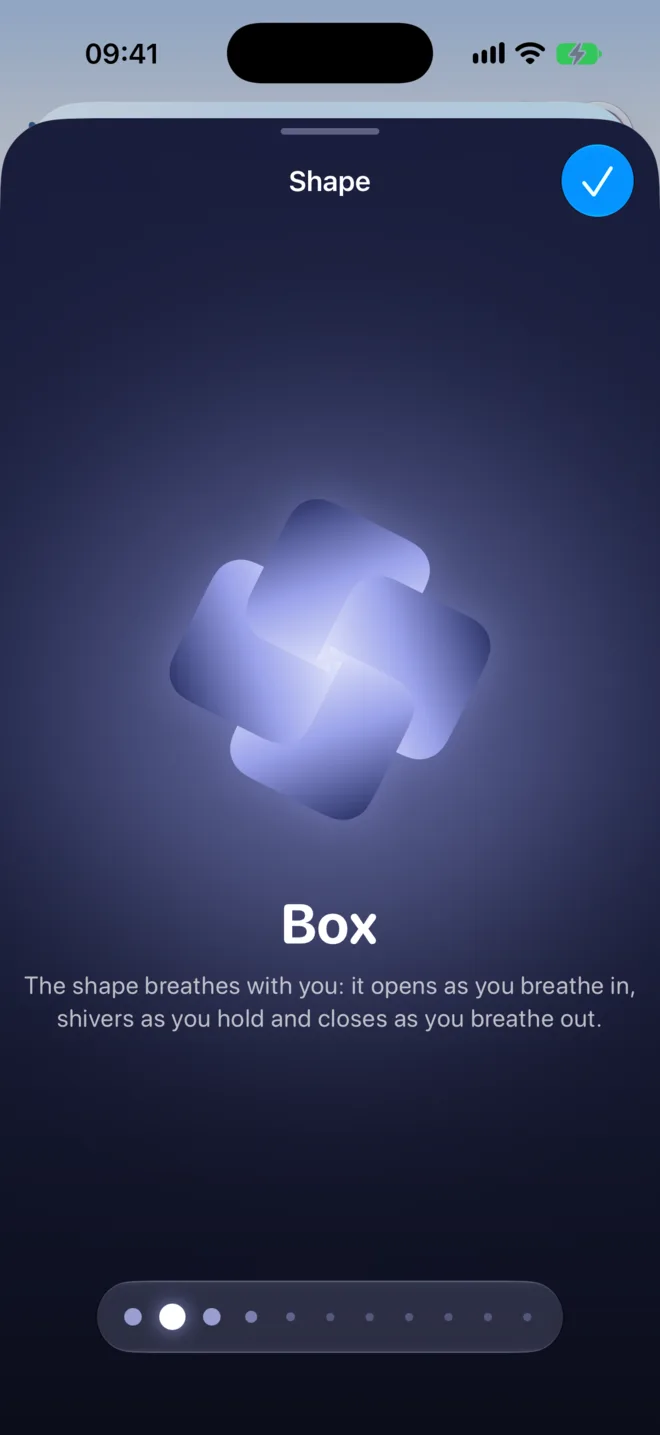
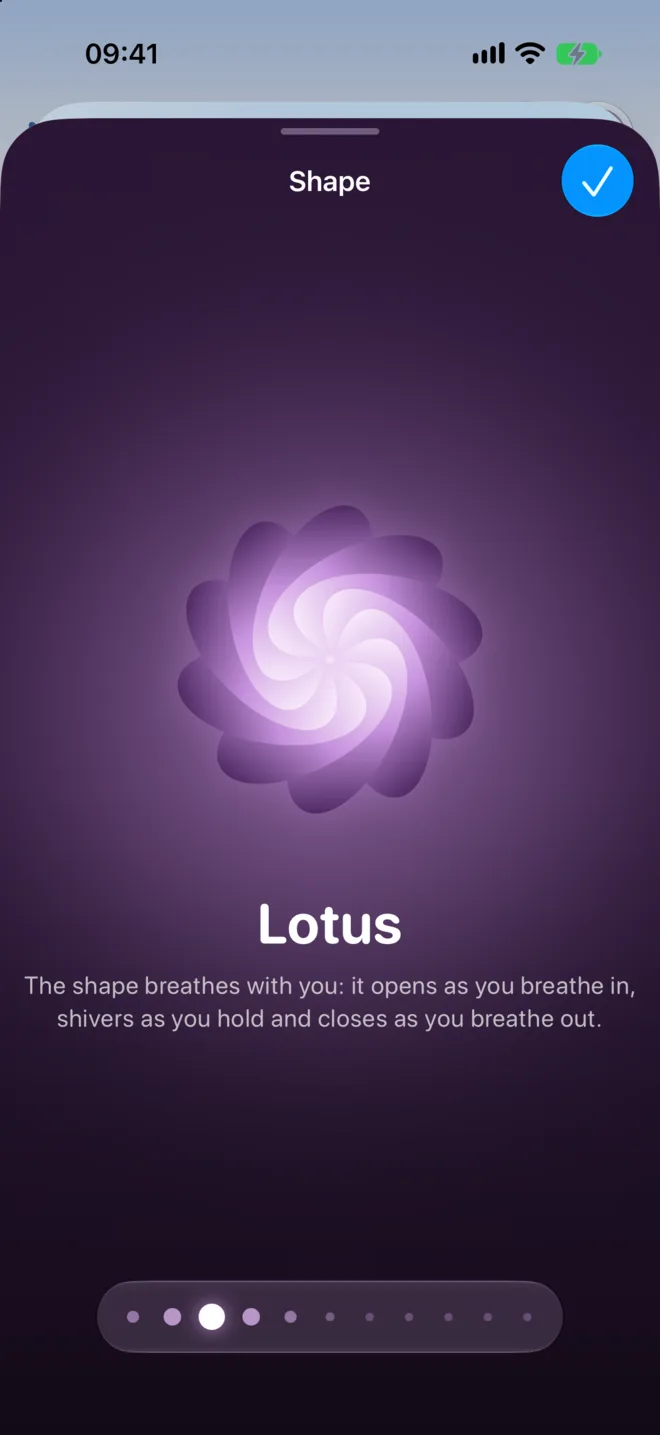
Sections fade into each other; breathing shows the Lotus flower
The dark sections (the hero, fasting, breathing and the closing banner)
fade into their light neighbours over 100 to 130 pt rather than meeting
them at a hard line, and fasting fades into breathing's teal. The
breathing screenshot is now Lotus, as its text says (it was Box).

diff --git a/app/page.tsx b/app/page.tsx
@@ -376,6 +376,20 @@ function ProList({ items, dark = false }: { items: string[]; dark?: boolean }) {
   );
 }
 
+/** A soft fade where a dark section meets its neighbour, so sections blend rather than meet at a hard line. */
+function EdgeFade({ edge, color }: { edge: 'top' | 'bottom'; color: string }) {
+  return (
+    <div
+      aria-hidden
+      className={cn(
+        'pointer-events-none absolute inset-x-0 z-[-5] h-24 sm:h-32',
+        edge === 'top' ? 'top-0 bg-gradient-to-b to-transparent' : 'bottom-0 bg-gradient-to-t to-transparent',
+        color,
+      )}
+    />
+  );
+}
+
 /** Every feature section shares one shape: a short title, one paragraph, three points and its screens. */
 function Feature({
   id,
@@ -389,8 +403,10 @@ function Feature({
   reverse = false,
   dark = false,
   className,
+  fades,
   children,
 }: {
+  fades?: ReactNode;
   id: string;
   eyebrow: string;
   tag?: ReactNode;
@@ -405,7 +421,8 @@ function Feature({
   children?: ReactNode;
 }) {
   return (
-    <section id={id} className={cn('relative scroll-mt-16 overflow-hidden px-4 py-12 sm:px-6 lg:py-16', className)}>
+    <section id={id} className={cn('relative isolate scroll-mt-16 overflow-hidden px-4 py-12 sm:px-6 lg:py-16', className)}>
+      {fades}
       <div className="relative mx-auto grid max-w-6xl gap-8 lg:grid-cols-2 lg:items-center">
         <div className={cn('min-w-0', reverse && 'lg:order-2')}>{visual}</div>
         <motion.div {...reveal} className={cn('min-w-0', reverse && 'lg:order-1')}>
@@ -675,7 +692,8 @@ function Hero() {
   };
 
   return (
-    <section className="relative isolate overflow-hidden bg-[#0b1220] px-4 pb-12 pt-20 text-white sm:px-6 sm:pt-24 lg:pb-16">
+    <section className="relative isolate overflow-hidden bg-[#0b1220] px-4 pb-16 pt-20 text-white sm:px-6 sm:pt-24 lg:pb-24">
+      <EdgeFade edge="bottom" color="from-white dark:from-[#0a1522]" />
       <div className="absolute inset-0 -z-20 bg-[radial-gradient(ellipse_at_15%_15%,rgba(13,110,253,0.45),transparent_55%),radial-gradient(ellipse_at_85%_90%,rgba(255,138,61,0.30),transparent_55%),radial-gradient(ellipse_at_50%_50%,rgba(191,90,242,0.22),transparent_60%)]" aria-hidden />
       <motion.div
         className="absolute inset-0 -z-10"
@@ -797,7 +815,7 @@ function SceneCarousel({ index, onChoose }: { index: number; onChoose: (index: n
         onChoose(index + (event.deltaX > 0 ? 1 : -1));
         window.setTimeout(() => (wheelLock.current = false), 500);
       }}
-      style={showsNeighbours ? { maskImage: 'linear-gradient(90deg, transparent, #000 10%, #000 90%, transparent)', WebkitMaskImage: 'linear-gradient(90deg, transparent, #000 10%, #000 90%, transparent)' } : { width: widthAt(0) + 8 }}
+      style={showsNeighbours ? { maskImage: 'linear-gradient(90deg, transparent, #000 10%, #000 90%, transparent)', WebkitMaskImage: 'linear-gradient(90deg, transparent, #000 10%, #000 90%, transparent)' } : { width: widthAt(0) + 16 }}
       onKeyDown={(event) => {
         if (event.key === 'ArrowRight') onChoose(index + 1);
         if (event.key === 'ArrowLeft') onChoose(index - 1);
@@ -1104,7 +1122,9 @@ function FaqSection() {
 
 function FinalCta() {
   return (
-    <section className="relative isolate overflow-hidden bg-[#0b1220] px-4 py-16 text-center text-white sm:px-6">
+    <section className="relative isolate overflow-hidden bg-[#0b1220] px-4 py-24 text-center text-white sm:px-6">
+      <EdgeFade edge="top" color="from-[#f8fbff] dark:from-[#07111c]" />
+      <EdgeFade edge="bottom" color="from-white dark:from-[#07111c]" />
       <div className="absolute inset-0 -z-10 bg-[radial-gradient(ellipse_at_20%_20%,rgba(13,110,253,0.45),transparent_55%),radial-gradient(ellipse_at_80%_80%,rgba(255,138,61,0.35),transparent_55%),radial-gradient(ellipse_at_50%_50%,rgba(191,90,242,0.25),transparent_60%)]" aria-hidden />
       <motion.div {...reveal} className="mx-auto max-w-3xl">
         <div className="mx-auto flex w-fit -space-x-3">
@@ -1248,8 +1268,10 @@ export default function Home() {
           <ProList items={['Every place you go (3 on the free plan)']} />
         </Feature>
 
-        <section id="fasting" className="relative scroll-mt-16 overflow-hidden bg-[#140b05] text-white">
-          <div className="absolute inset-0 bg-[radial-gradient(ellipse_at_30%_10%,rgba(255,138,61,0.35),transparent_55%),radial-gradient(ellipse_at_80%_80%,rgba(10,132,255,0.25),transparent_55%)]" aria-hidden />
+        <section id="fasting" className="relative isolate scroll-mt-16 overflow-hidden bg-[#140b05] text-white">
+          <EdgeFade edge="top" color="from-[#f8fbff] dark:from-[#07111c]" />
+          <EdgeFade edge="bottom" color="from-[#0b3b4a]" />
+          <div className="absolute inset-0 z-[-10] bg-[radial-gradient(ellipse_at_30%_10%,rgba(255,138,61,0.35),transparent_55%),radial-gradient(ellipse_at_80%_80%,rgba(10,132,255,0.25),transparent_55%)]" aria-hidden />
           <Feature
             id="fasting-intro"
             dark
@@ -1289,6 +1311,7 @@ export default function Home() {
 
         <Feature
           id="breathing"
+          fades={<EdgeFade edge="bottom" color="from-white dark:from-[#0a1522]" />}
           reverse
           dark
           className="bg-[linear-gradient(160deg,#0b3b4a_0%,#245d7a_45%,#c98a5a_100%)] text-white"
